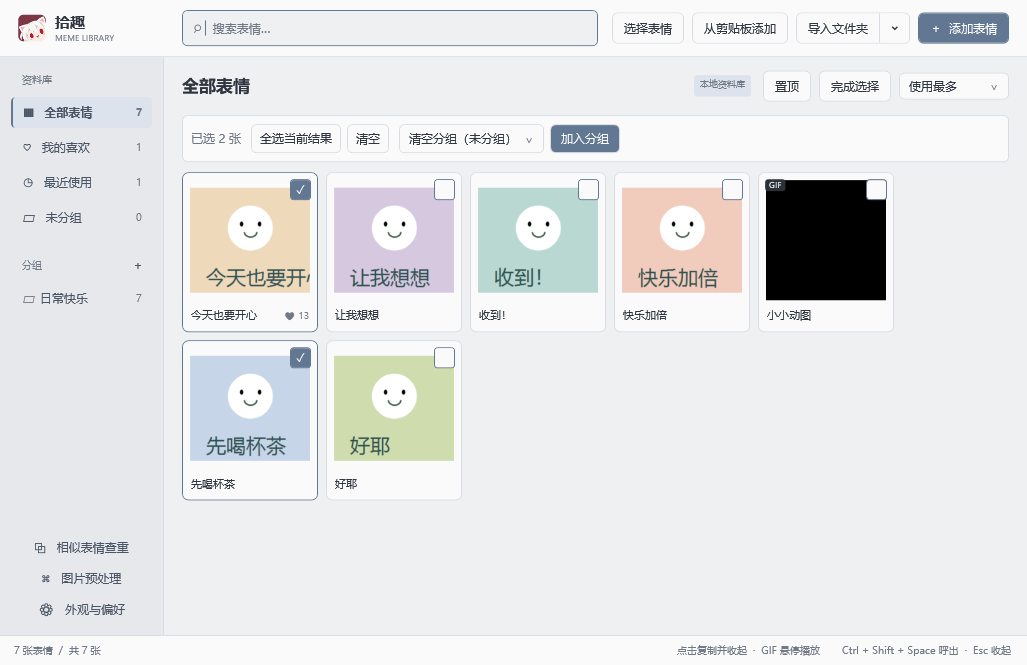
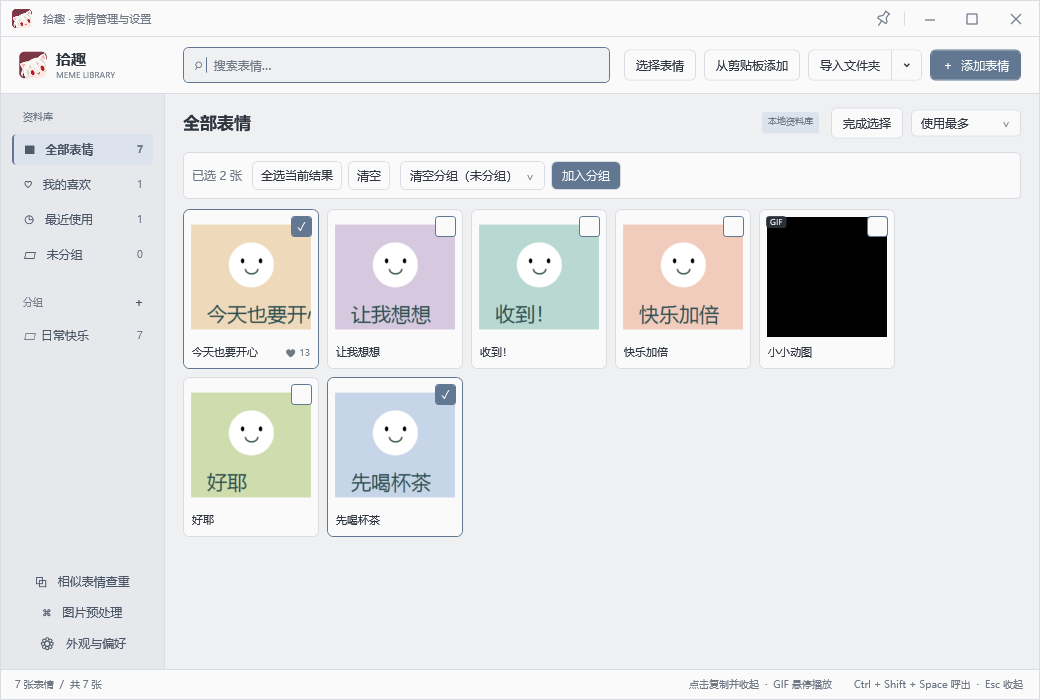
ui: move window pin controls into themed title bars

diff --git a/MainWindow.xaml b/MainWindow.xaml
@@ -9,6 +9,8 @@
   <Style x:Key="Nav" TargetType="ListBoxItem"><Setter Property="Foreground" Value="{DynamicResource SideInk}"/><Setter Property="Padding" Value="10,8"/><Setter Property="Margin" Value="0,2"/><Setter Property="HorizontalContentAlignment" Value="Stretch"/><Setter Property="Template"><Setter.Value><ControlTemplate TargetType="ListBoxItem"><Border x:Name="B" Background="Transparent" CornerRadius="4" Padding="{TemplateBinding Padding}" BorderThickness="2,0,0,0" BorderBrush="Transparent"><ContentPresenter/></Border><ControlTemplate.Triggers><Trigger Property="IsMouseOver" Value="True"><Setter TargetName="B" Property="Background" Value="{DynamicResource Tint}"/></Trigger><Trigger Property="IsSelected" Value="True"><Setter TargetName="B" Property="Background" Value="{DynamicResource Tint}"/><Setter TargetName="B" Property="BorderBrush" Value="{DynamicResource Accent}"/><Setter Property="FontWeight" Value="SemiBold"/></Trigger></ControlTemplate.Triggers></ControlTemplate></Setter.Value></Setter></Style>
   <Style x:Key="CompactMenu" TargetType="ContextMenu"><Setter Property="Background" Value="{DynamicResource Surface}"/><Setter Property="Foreground" Value="{DynamicResource Ink}"/><Setter Property="BorderBrush" Value="{DynamicResource Line}"/><Setter Property="BorderThickness" Value="1"/><Setter Property="Padding" Value="6"/><Setter Property="HasDropShadow" Value="True"/><Setter Property="Template"><Setter.Value><ControlTemplate TargetType="ContextMenu"><Border Background="{TemplateBinding Background}" BorderBrush="{TemplateBinding BorderBrush}" BorderThickness="1" CornerRadius="9" Padding="{TemplateBinding Padding}"><StackPanel IsItemsHost="True" KeyboardNavigation.DirectionalNavigation="Cycle"/></Border></ControlTemplate></Setter.Value></Setter></Style>
   <Style x:Key="CompactMenuItem" TargetType="MenuItem"><Setter Property="Foreground" Value="{DynamicResource Ink}"/><Setter Property="Padding" Value="10,9"/><Setter Property="Cursor" Value="Hand"/><Setter Property="Template"><Setter.Value><ControlTemplate TargetType="MenuItem"><Border x:Name="Item" Background="Transparent" CornerRadius="5" Padding="{TemplateBinding Padding}"><Grid><Grid.ColumnDefinitions><ColumnDefinition Width="24"/><ColumnDefinition Width="*"/></Grid.ColumnDefinitions><ContentPresenter x:Name="Glyph" ContentSource="Icon" VerticalAlignment="Center"/><TextBlock x:Name="Check" Text="✓" Foreground="{DynamicResource Accent}" Visibility="Collapsed" VerticalAlignment="Center"/><ContentPresenter Grid.Column="1" ContentSource="Header" RecognizesAccessKey="True" VerticalAlignment="Center"/></Grid></Border><ControlTemplate.Triggers><Trigger Property="IsHighlighted" Value="True"><Setter TargetName="Item" Property="Background" Value="{DynamicResource Tint}"/></Trigger><Trigger Property="IsChecked" Value="True"><Setter TargetName="Check" Property="Visibility" Value="Visible"/><Setter TargetName="Glyph" Property="Visibility" Value="Collapsed"/></Trigger><Trigger Property="IsEnabled" Value="False"><Setter TargetName="Item" Property="Opacity" Value="0.4"/></Trigger></ControlTemplate.Triggers></ControlTemplate></Setter.Value></Setter></Style>
+  <Style x:Key="CaptionButton" TargetType="Button"><Setter Property="Width" Value="42"/><Setter Property="Height" Value="35"/><Setter Property="Padding" Value="0"/><Setter Property="Foreground" Value="{DynamicResource Muted}"/><Setter Property="Background" Value="Transparent"/><Setter Property="BorderThickness" Value="0"/><Setter Property="Template"><Setter.Value><ControlTemplate TargetType="Button"><Border Background="{TemplateBinding Background}" BorderBrush="{DynamicResource Accent}" BorderThickness="{TemplateBinding BorderThickness}"><ContentPresenter HorizontalAlignment="Center" VerticalAlignment="Center"/></Border></ControlTemplate></Setter.Value></Setter><Style.Triggers><Trigger Property="IsMouseOver" Value="True"><Setter Property="Background" Value="{DynamicResource Tint}"/><Setter Property="Foreground" Value="{DynamicResource Ink}"/></Trigger><Trigger Property="IsPressed" Value="True"><Setter Property="Opacity" Value="0.65"/></Trigger><Trigger Property="IsKeyboardFocused" Value="True"><Setter Property="BorderThickness" Value="1"/></Trigger></Style.Triggers></Style>
+  <Style x:Key="CaptionCloseButton" TargetType="Button" BasedOn="{StaticResource CaptionButton}"><Style.Triggers><Trigger Property="IsMouseOver" Value="True"><Setter Property="Background" Value="#C74754"/><Setter Property="Foreground" Value="White"/></Trigger></Style.Triggers></Style>
  </Window.Resources>
  <Grid Background="{DynamicResource Wallpaper}">
   <Grid.RowDefinitions><RowDefinition Height="57"/><RowDefinition Height="*"/><RowDefinition Height="30"/></Grid.RowDefinitions>
@@ -24,7 +26,7 @@
     <StackPanel Grid.Row="2"><Button x:Name="DuplicatesButton" Content="⧉   相似表情查重" Background="Transparent" Foreground="{DynamicResource SideInk}" BorderThickness="0" Padding="10,8"/><Button x:Name="PreprocessButton" Content="⌘   图片预处理" Background="Transparent" Foreground="{DynamicResource SideInk}" BorderThickness="0" Padding="10,8"/><Button x:Name="SettingsButton" Content="⚙   外观与偏好" Background="Transparent" Foreground="{DynamicResource SideInk}" BorderThickness="0" Padding="10,8"/></StackPanel>
    </Grid></Border>
    <Grid Grid.Column="1" Margin="18,0,10,0"><Grid.RowDefinitions><RowDefinition Height="58"/><RowDefinition Height="Auto"/><RowDefinition Height="*"/></Grid.RowDefinitions>
-    <Grid Margin="0,0,8,0"><Grid.ColumnDefinitions><ColumnDefinition Width="*"/><ColumnDefinition Width="Auto"/></Grid.ColumnDefinitions><Grid VerticalAlignment="Center" Margin="0,0,12,0"><Grid.ColumnDefinitions><ColumnDefinition Width="*"/><ColumnDefinition Width="Auto"/></Grid.ColumnDefinitions><TextBlock x:Name="PageTitle" ToolTip="{Binding Text, RelativeSource={RelativeSource Self}}" Text="全部表情" FontSize="17" FontWeight="SemiBold" TextTrimming="CharacterEllipsis" HorizontalAlignment="Left"/><Border Grid.Column="1" Background="{DynamicResource Tint}" CornerRadius="3" Margin="10,0,0,0" Padding="6,3"><TextBlock Text="本地资料库" Foreground="{DynamicResource Muted}" FontSize="9"/></Border></Grid><StackPanel Grid.Column="1" Orientation="Horizontal" VerticalAlignment="Center"><Button x:Name="PinWindow" Content="置顶" Margin="0,0,8,0"/><Button x:Name="BatchToggle" Content="批量分组" Margin="0,0,8,0"/><ComboBox x:Name="Sort" SelectedIndex="0" VerticalAlignment="Center"><ComboBoxItem Content="使用最多"/><ComboBoxItem Content="最近添加"/><ComboBoxItem Content="最近使用"/><ComboBoxItem Content="名称排序"/></ComboBox></StackPanel></Grid>
+    <Grid Margin="0,0,8,0"><Grid.ColumnDefinitions><ColumnDefinition Width="*"/><ColumnDefinition Width="Auto"/></Grid.ColumnDefinitions><Grid VerticalAlignment="Center" Margin="0,0,12,0"><Grid.ColumnDefinitions><ColumnDefinition Width="*"/><ColumnDefinition Width="Auto"/></Grid.ColumnDefinitions><TextBlock x:Name="PageTitle" ToolTip="{Binding Text, RelativeSource={RelativeSource Self}}" Text="全部表情" FontSize="17" FontWeight="SemiBold" TextTrimming="CharacterEllipsis" HorizontalAlignment="Left"/><Border Grid.Column="1" Background="{DynamicResource Tint}" CornerRadius="3" Margin="10,0,0,0" Padding="6,3"><TextBlock Text="本地资料库" Foreground="{DynamicResource Muted}" FontSize="9"/></Border></Grid><StackPanel Grid.Column="1" Orientation="Horizontal" VerticalAlignment="Center"><Button x:Name="BatchToggle" Content="批量分组" Margin="0,0,8,0"/><ComboBox x:Name="Sort" SelectedIndex="0" VerticalAlignment="Center"><ComboBoxItem Content="使用最多"/><ComboBoxItem Content="最近添加"/><ComboBoxItem Content="最近使用"/><ComboBoxItem Content="名称排序"/></ComboBox></StackPanel></Grid>
     <Border x:Name="BatchBar" Grid.Row="1" Visibility="Collapsed" Background="{DynamicResource Surface}" BorderBrush="{DynamicResource Line}" BorderThickness="1" CornerRadius="5" Padding="8" Margin="0,0,8,10"><WrapPanel VerticalAlignment="Center"><TextBlock x:Name="BatchCount" Text="已选 0 张" Foreground="{DynamicResource Muted}" VerticalAlignment="Center" Margin="0,0,10,0"/><Button x:Name="BatchSelectAll" Content="全选当前结果" Padding="8,6" Margin="0,0,6,0"/><Button x:Name="BatchClear" Content="清空" Padding="8,6" Margin="0,0,10,0"/><ComboBox x:Name="BatchGroup" MinWidth="120" MaxWidth="180" Margin="0,0,6,0"/><Button x:Name="BatchMove" Content="加入分组" Padding="10,6" Background="{DynamicResource Accent}" Foreground="White"/></WrapPanel></Border>
     <Grid Grid.Row="2"><ScrollViewer x:Name="Scroller" VerticalScrollBarVisibility="Auto" HorizontalScrollBarVisibility="Disabled" Padding="0,0,0,8"><WrapPanel x:Name="Cards"/></ScrollViewer><StackPanel x:Name="Empty" HorizontalAlignment="Center" VerticalAlignment="Center" Margin="0,0,0,40"><Border Background="{DynamicResource Tint}" CornerRadius="12" Width="52" Height="52" HorizontalAlignment="Center"><TextBlock Text="▦" FontSize="27" Foreground="{DynamicResource Accent}" HorizontalAlignment="Center" VerticalAlignment="Center"/></Border><TextBlock x:Name="EmptyTitle" Text="添加第一张表情" FontSize="17" FontWeight="SemiBold" TextAlignment="Center" Margin="0,16,0,8"/><TextBlock x:Name="EmptyHint" Text="拖入图片或文件夹，建立你的本地表情库" Foreground="{DynamicResource Muted}" TextAlignment="Center"/><Button x:Name="EmptyImport" Content="＋  添加表情" Background="{DynamicResource Accent}" BorderBrush="{DynamicResource Accent}" Foreground="White" Margin="0,18,0,0" HorizontalAlignment="Center"/></StackPanel></Grid>
    </Grid>

diff --git a/WindowActions.cs b/WindowActions.cs
@@ -3,14 +3,40 @@ using System.IO;
 using System.Linq;
 using System.Windows;
 using System.Windows.Controls;
+using System.Windows.Automation;
+using System.Windows.Data;
 using System.Windows.Input;
 using System.Windows.Media;
 using System.Windows.Media.Imaging;
+using System.Windows.Shell;
+using ShapePath=System.Windows.Shapes.Path;
 
 namespace MemeManager {
  public partial class ManagerWindow {
   Button pickerPin;
-  void UpdatePinButtons(){var main=Find<Button>("PinWindow");if(main!=null){main.Content=window.Topmost?"取消置顶":"置顶";main.ToolTip=window.Topmost?"管理窗口已置顶":"让管理窗口显示在其它窗口上方";main.SetResourceReference(Button.BackgroundProperty,window.Topmost?"Tint":"Surface");}if(pickerPin!=null){pickerPin.Content=picker.Topmost?"取消置顶":"置顶";pickerPin.SetResourceReference(Button.BackgroundProperty,picker.Topmost?"Tint":"Surface");}}
+  // WindowChrome keeps native caption dragging, double-click, system menu and edge resizing.
+  Button AddWindowTitleBar(Window target,bool quick){
+   var content=(UIElement)target.Content;target.Content=null;
+   WindowChrome.SetWindowChrome(target,new WindowChrome{CaptionHeight=36,ResizeBorderThickness=new Thickness(6),GlassFrameThickness=new Thickness(0),CornerRadius=new CornerRadius(0),UseAeroCaptionButtons=false});
+   var frame=new Border{BorderThickness=new Thickness(1)};frame.SetResourceReference(Border.BorderBrushProperty,"Line");
+   var layout=new Grid();layout.RowDefinitions.Add(new RowDefinition{Height=new GridLength(36)});layout.RowDefinitions.Add(new RowDefinition());frame.Child=layout;
+   var caption=new Border{BorderThickness=new Thickness(0,0,0,1)};caption.SetResourceReference(Border.BackgroundProperty,"Surface");caption.SetResourceReference(Border.BorderBrushProperty,"Line");layout.Children.Add(caption);
+   var bar=new Grid();bar.ColumnDefinitions.Add(new ColumnDefinition{Width=new GridLength(42)});bar.ColumnDefinitions.Add(new ColumnDefinition());bar.ColumnDefinitions.Add(new ColumnDefinition{Width=GridLength.Auto});caption.Child=bar;
+   var icon=new Image{Source=target.Icon,Width=20,Height=20,VerticalAlignment=VerticalAlignment.Center,HorizontalAlignment=HorizontalAlignment.Center};WindowChrome.SetIsHitTestVisibleInChrome(icon,true);icon.MouseLeftButtonDown+=(s,e)=>{if(e.ClickCount==2)target.Close();else SystemCommands.ShowSystemMenu(target,target.PointToScreen(new Point(0,36)));e.Handled=true;};bar.Children.Add(icon);
+   var title=new TextBlock{FontSize=11,VerticalAlignment=VerticalAlignment.Center,TextTrimming=TextTrimming.CharacterEllipsis,Margin=new Thickness(0,0,12,0)};title.SetBinding(TextBlock.TextProperty,new Binding("Title"){Source=target});title.SetResourceReference(TextBlock.ForegroundProperty,"Muted");Grid.SetColumn(title,1);bar.Children.Add(title);
+   var actions=new StackPanel{Orientation=Orientation.Horizontal};Grid.SetColumn(actions,2);bar.Children.Add(actions);
+   var pin=CaptionButton(target,quick?"PickerPinWindow":"PinWindow","置顶窗口","M 7,1 L 13,1 M 8,1 L 8,6 L 5,9 L 5,11 L 15,11 L 15,9 L 12,6 L 12,1 M 10,11 L 10,17");pin.Width=36;actions.Children.Add(pin);if(!quick)target.RegisterName("PinWindow",pin);
+   var separator=new Border{Width=1,Height=14,Margin=new Thickness(4,0,4,0),VerticalAlignment=VerticalAlignment.Center};separator.SetResourceReference(Border.BackgroundProperty,"Line");actions.Children.Add(separator);
+   var minimize=CaptionButton(target,"CaptionMinimize","最小化","M 4,10 L 14,10");minimize.Click+=(s,e)=>target.WindowState=WindowState.Minimized;actions.Children.Add(minimize);
+   var maximize=CaptionButton(target,"CaptionMaximize","最大化","M 4,4 L 14,4 L 14,14 L 4,14 Z");maximize.Click+=(s,e)=>{target.WindowState=target.WindowState==WindowState.Maximized?WindowState.Normal:WindowState.Maximized;};actions.Children.Add(maximize);
+   var close=CaptionButton(target,"CaptionClose","关闭","M 4,4 L 14,14 M 14,4 L 4,14");close.Width=46;close.Style=(Style)target.FindResource("CaptionCloseButton");close.Click+=(s,e)=>target.Close();actions.Children.Add(close);
+   Grid.SetRow(content,1);layout.Children.Add(content);target.Content=frame;
+   target.StateChanged+=(s,e)=>{bool full=target.WindowState==WindowState.Maximized;frame.Padding=full?SystemParameters.WindowResizeBorderThickness:new Thickness(0);maximize.ToolTip=full?"还原":"最大化";AutomationProperties.SetName(maximize,(string)maximize.ToolTip);((ShapePath)maximize.Content).Data=Geometry.Parse(full?"M 6,4 L 6,2 L 16,2 L 16,12 L 14,12 M 3,6 L 12,6 L 12,15 L 3,15 Z":"M 4,4 L 14,4 L 14,14 L 4,14 Z");};
+   return pin;
+  }
+  Button CaptionButton(Window target,string name,string label,string geometry){var button=new Button{Name=name,ToolTip=label,Style=(Style)target.FindResource("CaptionButton")};AutomationProperties.SetName(button,label);WindowChrome.SetIsHitTestVisibleInChrome(button,true);var glyph=new ShapePath{Data=Geometry.Parse(geometry),Width=18,Height=18,StrokeThickness=1.2,StrokeLineJoin=PenLineJoin.Round,SnapsToDevicePixels=true};glyph.SetBinding(ShapePath.StrokeProperty,new Binding("Foreground"){Source=button});button.Content=glyph;return button;}
+  void SetPinAppearance(Button button,bool pinned,string label){if(button==null)return;button.ToolTip=pinned?"取消"+label+"置顶":label+"置顶";AutomationProperties.SetName(button,(string)button.ToolTip);AutomationProperties.SetItemStatus(button,pinned?"已置顶":"未置顶");if(pinned){button.SetResourceReference(Button.BackgroundProperty,"Tint");button.SetResourceReference(Button.ForegroundProperty,"Accent");}else{button.ClearValue(Button.BackgroundProperty);button.ClearValue(Button.ForegroundProperty);}((ShapePath)button.Content).RenderTransform=new RotateTransform(pinned?0:35,9,9);}
+  void UpdatePinButtons(){SetPinAppearance(Find<Button>("PinWindow"),window.Topmost,"管理窗口");if(pickerPin!=null)SetPinAppearance(pickerPin,picker.Topmost,"选择窗口");}
   void ToggleWindowPin(Window target,bool quick){bool previous=target.Topmost;try{target.Topmost=!previous;if(quick)library.Data.Settings.PickerTopmost=target.Topmost;else library.Data.Settings.ManagerTopmost=target.Topmost;library.Save();}catch(Exception ex){target.Topmost=previous;if(quick)library.Data.Settings.PickerTopmost=previous;else library.Data.Settings.ManagerTopmost=previous;Report(ex);}UpdatePinButtons();}
   void HandlePasteKey(Window owner,KeyEventArgs e){if(e.Key!=Key.V||Keyboard.Modifiers!=ModifierKeys.Control)return;try{var data=Clipboard.GetDataObject();if(!ClipboardImages.HasImages(data))return;e.Handled=true;if(!e.IsRepeat)AddFromClipboard(true,owner,data);}catch(System.Runtime.InteropServices.COMException){e.Handled=true;MessageBox.Show(owner,"剪贴板暂时被其它程序占用，请稍后重试。","暂时无法添加");}catch(Exception ex){e.Handled=true;MessageBox.Show(owner,ex.Message,"无法读取剪贴板");}}
   string ClipboardTarget(Window owner){string id=owner==picker&&pickerGroups!=null&&pickerGroups.SelectedItem!=null?((PickerGroup)pickerGroups.SelectedItem).Id:filter;return library.Data.Groups.Any(x=>x.Id==id)?id:null;}

diff --git a/tests/SmokeTests.cs b/tests/SmokeTests.cs
@@ -56,10 +56,14 @@ class SmokeTests {
   Check(Field<Window>(manager,"picker")==null,"picker is created lazily");Invoke(manager,"Settings");var settings=Field<Window>(manager,"settingsWindow");Check(settings.IsVisible&&!window.IsVisible&&settings.Owner==null,"settings opens independently without showing manager");Invoke(manager,"Settings");Check(object.ReferenceEquals(settings,Field<Window>(manager,"settingsWindow")),"settings window reuses its existing instance");
   object[] hotkeyArgs={Field<IntPtr>(manager,"handle"),0x312,new IntPtr(1),IntPtr.Zero,false};manager.GetType().GetMethod("MessageHook",BindingFlags.Instance|BindingFlags.NonPublic).Invoke(manager,hotkeyArgs);
   var picker=Field<Window>(manager,"picker");picker.UpdateLayout();Invoke(manager,"RenderPicker");Check((bool)hotkeyArgs[4]&&picker.IsVisible&&!window.IsVisible&&settings.IsEnabled,"global hotkey opens only picker while settings remains usable");Check(picker.Owner==null&&!picker.ShowInTaskbar,"picker has its own independent tool window");
+  Check(CaptionHitTest(picker,new Point(120,18))==2&&CaptionHitTest(picker,Field<Button>(manager,"pickerPin").TranslatePoint(new Point(18,18),picker))==1,"picker title bar keeps native dragging and clickable pin");
   Render(picker,Path.Combine(root,"preview-picker.png"));Render(settings,Path.Combine(root,"preview-settings.png"));
   var pickerSearch=Field<TextBox>(manager,"pickerSearch");pickerSearch.Text="今天";Invoke(manager,"RefreshPicker");Check(Field<List<Meme>>(manager,"pickerItems").Count==1,"picker search filters independently");var pickerCards=Field<WrapPanel>(manager,"pickerCards");Check(((Border)pickerCards.Children[0]).ContextMenu==null,"picker cards do not expose management actions");
   var liveForCopy=Field<Library>(manager,"library");int priorUses=liveForCopy.Data.Memes[0].Uses;Invoke(manager,"CompleteCopy",liveForCopy.Data.Memes[0],picker);Check(!picker.IsVisible&&settings.IsVisible&&!window.IsVisible&&liveForCopy.Data.Memes[0].Uses==priorUses+1,"successful selection records usage and hides only picker");
   pickerSearch.Clear();Invoke(manager,"Show");window.UpdateLayout();Invoke(manager,"RenderMore");Check(cards.Children.Count==7&&window.IsEnabled,"manager remains usable alongside modeless settings");
+  var mainPin=(Button)window.FindName("PinWindow");Check(CaptionHitTest(window,new Point(200,18))==2&&CaptionHitTest(window,mainPin.TranslatePoint(new Point(18,18),window))==1&&CaptionHitTest(window,new Point(300,2))==12,"manager title bar supports native dragging, pin clicks and top-edge resizing");
+  var captionMax=Descendants<Button>(window).Single(x=>x.Name=="CaptionMaximize");captionMax.RaiseEvent(new RoutedEventArgs(Button.ClickEvent));PumpUntil(()=>window.WindowState==WindowState.Maximized);window.UpdateLayout();Check(((FrameworkElement)window.Content).ActualWidth>0&&mainPin.TranslatePoint(new Point(0,0),window).Y>=SystemParameters.WindowResizeBorderThickness.Top,"maximized title bar stays within the visible work area");Render(window,Path.Combine(root,"preview-maximized.png"));captionMax.RaiseEvent(new RoutedEventArgs(Button.ClickEvent));PumpUntil(()=>window.WindowState==WindowState.Normal);
+  Descendants<Button>(window).Single(x=>x.Name=="CaptionMinimize").RaiseEvent(new RoutedEventArgs(Button.ClickEvent));PumpUntil(()=>window.WindowState==WindowState.Minimized);Invoke(manager,"Show");Check(window.WindowState==WindowState.Normal&&window.IsVisible,"caption minimize can reopen from the existing show action");Descendants<Button>(window).Single(x=>x.Name=="CaptionClose").RaiseEvent(new RoutedEventArgs(Button.ClickEvent));Check(!window.IsVisible,"caption close preserves hide-to-tray behavior");Invoke(manager,"Show");
   Check(window.FindName("OpenProcessor")==null&&window.FindName("PreprocessButton")!=null,"processor entry remains only in lower-left manager sidebar");
   var batchLibrary=Field<Library>(manager,"library");batchLibrary.Data.Groups.Add(new Group{Id="batch-target",Name="批量目标"});Invoke(manager,"ToggleBatchMode");int usesBeforeBatch=batchLibrary.Data.Memes.Sum(x=>x.Uses);var batchCard=(Border)cards.Children[0];batchCard.RaiseEvent(new System.Windows.Input.MouseButtonEventArgs(System.Windows.Input.Mouse.PrimaryDevice,0,System.Windows.Input.MouseButton.Left){RoutedEvent=UIElement.MouseLeftButtonUpEvent});
   Check(Field<HashSet<string>>(manager,"batchSelected").Count==1&&window.IsVisible&&batchLibrary.Data.Memes.Sum(x=>x.Uses)==usesBeforeBatch,"batch card click selects without copying or hiding manager");
@@ -101,6 +105,8 @@ class SmokeTests {
   Invoke(manager,"Exit");
   File.WriteAllText(Path.Combine(library.Root,"library.json"),"broken");var recovered=new Library(library.Root);Check(recovered.LoadWarning!=null&&recovered.Data.Memes.Count==7,"corrupt primary recovers from atomic backup");
  }
+ [System.Runtime.InteropServices.DllImport("user32.dll")]static extern IntPtr SendMessage(IntPtr hwnd,int message,IntPtr wparam,IntPtr lparam);
+ static int CaptionHitTest(Window target,Point local){var screen=target.PointToScreen(local);long packed=((long)(ushort)(int)screen.Y<<16)|(ushort)(int)screen.X;return SendMessage(new System.Windows.Interop.WindowInteropHelper(target).Handle,0x84,IntPtr.Zero,new IntPtr(packed)).ToInt32();}
  static void PasteDecision(object manager,Window owner,IDataObject data,bool accept,string render){bool started=false,responded=false;var timer=new System.Windows.Threading.DispatcherTimer{Interval=TimeSpan.FromMilliseconds(10)};timer.Tick+=(s,e)=>{var dialog=Application.Current.Windows.Cast<Window>().FirstOrDefault(w=>w.Title=="确认添加剪贴板图片"&&w.IsVisible);if(dialog==null||responded)return;responded=true;if(render!=null)Render(dialog,render);if(accept)Descendants<Button>(dialog).Single(x=>x.Content is string&&(string)x.Content=="确定添加").RaiseEvent(new RoutedEventArgs(Button.ClickEvent));else dialog.DialogResult=false;};timer.Start();owner.Dispatcher.BeginInvoke(new Action(()=>{started=true;Invoke(manager,"AddFromClipboard",true,owner,data);}));try{PumpUntil(()=>started&&responded&&!Field<bool>(manager,"readingClipboard"));}finally{timer.Stop();}}
  static IEnumerable<T> Descendants<T>(DependencyObject parent) where T:DependencyObject {for(int i=0;i<VisualTreeHelper.GetChildrenCount(parent);i++){var child=VisualTreeHelper.GetChild(parent,i);if(child is T)yield return (T)child;foreach(var nested in Descendants<T>(child))yield return nested;}}
  static void RenderElement(FrameworkElement element,string file){element.UpdateLayout();int w=(int)Math.Ceiling(element.ActualWidth),h=(int)Math.Ceiling(element.ActualHeight);var visual=new DrawingVisual();using(var dc=visual.RenderOpen())dc.DrawRectangle(new VisualBrush(element),null,new Rect(0,0,w,h));var bitmap=new RenderTargetBitmap(w,h,96,96,PixelFormats.Pbgra32);bitmap.Render(visual);var encoder=new PngBitmapEncoder();encoder.Frames.Add(BitmapFrame.Create(bitmap));using(var stream=File.Create(file))encoder.Save(stream);}

diff --git a/Picker.cs b/Picker.cs
@@ -20,7 +20,7 @@ namespace MemeManager {
    picker.UpdateLayout();RefreshPicker();picker.Activate();Native.SetForegroundWindow(new WindowInteropHelper(picker).Handle);pickerSearch.Focus();pickerSearch.SelectAll();
   }
   void CreatePicker(){
-   picker=new Window{Title="拾趣 · 选择表情",Icon=window.Icon,Width=604,Height=458,MinWidth=400,MinHeight=300,WindowStartupLocation=WindowStartupLocation.CenterScreen,WindowStyle=WindowStyle.ToolWindow,ResizeMode=ResizeMode.CanResizeWithGrip,ShowInTaskbar=false,Topmost=library.Data.Settings.PickerTopmost,Resources=window.Resources,FontFamily=window.FontFamily,FontSize=12,UseLayoutRounding=true};
+   picker=new Window{Title="拾趣 · 选择表情",Icon=window.Icon,Width=604,Height=458,MinWidth=400,MinHeight=300,WindowStartupLocation=WindowStartupLocation.CenterScreen,WindowStyle=WindowStyle.ToolWindow,ResizeMode=ResizeMode.CanResize,ShowInTaskbar=false,Topmost=library.Data.Settings.PickerTopmost,Resources=window.Resources,FontFamily=window.FontFamily,FontSize=12,UseLayoutRounding=true};
    picker.SetResourceReference(Window.BackgroundProperty,"Canvas");
    var root=new Grid{Margin=new Thickness(12,10,4,8)};root.SetResourceReference(Grid.BackgroundProperty,"Wallpaper");root.RowDefinitions.Add(new RowDefinition{Height=GridLength.Auto});root.RowDefinitions.Add(new RowDefinition{Height=new GridLength(1,GridUnitType.Star)});root.RowDefinitions.Add(new RowDefinition{Height=new GridLength(29)});
    var tools=new Grid{Margin=new Thickness(0,0,8,10)};tools.ColumnDefinitions.Add(new ColumnDefinition());tools.ColumnDefinitions.Add(new ColumnDefinition{Width=new GridLength(160)});
@@ -30,7 +30,7 @@ namespace MemeManager {
    var body=new Grid();Grid.SetRow(body,1);pickerCards=new WrapPanel();pickerScroll=new ScrollViewer{Content=pickerCards,VerticalScrollBarVisibility=ScrollBarVisibility.Auto,HorizontalScrollBarVisibility=ScrollBarVisibility.Disabled};body.Children.Add(pickerScroll);
    pickerEmpty=new TextBlock{Text="暂无表情，请到管理窗口导入",HorizontalAlignment=HorizontalAlignment.Center,VerticalAlignment=VerticalAlignment.Center,TextWrapping=TextWrapping.Wrap,Margin=new Thickness(12)};pickerEmpty.SetResourceReference(TextBlock.ForegroundProperty,"Muted");body.Children.Add(pickerEmpty);root.Children.Add(body);
    var footer=new Grid{Margin=new Thickness(0,3,8,0)};footer.ColumnDefinitions.Add(new ColumnDefinition());footer.ColumnDefinitions.Add(new ColumnDefinition{Width=GridLength.Auto});pickerStatus=new TextBlock{FontSize=10,TextTrimming=TextTrimming.CharacterEllipsis,VerticalAlignment=VerticalAlignment.Center};pickerStatus.SetResourceReference(TextBlock.ForegroundProperty,"Muted");footer.Children.Add(pickerStatus);
-   var manage=new Button{Content="表情管理 ↗",Padding=new Thickness(7,3,7,3),FontSize=10};manage.Click+=(s,e)=>{picker.Hide();Show();};var footerActions=new StackPanel{Orientation=Orientation.Horizontal};pickerPin=new Button{Content="置顶",Padding=new Thickness(7,3,7,3),FontSize=10,Margin=new Thickness(0,0,6,0)};pickerPin.Click+=(s,e)=>ToggleWindowPin(picker,true);footerActions.Children.Add(pickerPin);footerActions.Children.Add(manage);Grid.SetColumn(footerActions,1);footer.Children.Add(footerActions);UpdatePinButtons();Grid.SetRow(footer,2);root.Children.Add(footer);picker.Content=root;
+   var manage=new Button{Content="表情管理 ↗",Padding=new Thickness(7,3,7,3),FontSize=10};manage.Click+=(s,e)=>{picker.Hide();Show();};Grid.SetColumn(manage,1);footer.Children.Add(manage);Grid.SetRow(footer,2);root.Children.Add(footer);picker.Content=root;pickerPin=AddWindowTitleBar(picker,true);pickerPin.Click+=(s,e)=>ToggleWindowPin(picker,true);UpdatePinButtons();
    pickerSearchTimer=new DispatcherTimer{Interval=TimeSpan.FromMilliseconds(150)};pickerSearchTimer.Tick+=(s,e)=>{pickerSearchTimer.Stop();if(picker.IsVisible)RefreshPicker();};
    pickerSearch.TextChanged+=(s,e)=>{placeholder.Visibility=pickerSearch.Text.Length==0?Visibility.Visible:Visibility.Collapsed;pickerSearchTimer.Stop();pickerSearchTimer.Start();};
    pickerGroups.SelectionChanged+=(s,e)=>{if(!rebuildingPicker)RefreshPicker();};

diff --git a/App.cs b/App.cs
@@ -22,7 +22,7 @@ namespace MemeManager {
   string filter="all"; bool rebuilding,importing,exiting,rendering; int rendered,firstRendered=-1; List<Meme> visible=new List<Meme>();
   CancellationTokenSource importCancellation; readonly Dictionary<string,BitmapSource> thumbnails=new Dictionary<string,BitmapSource>();
   readonly List<GifPlayer> players=new List<GifPlayer>(); DispatcherTimer searchTimer,releaseTimer;
-  public ManagerWindow(){RenderOptions.ProcessRenderMode=RenderMode.SoftwareOnly;using(var stream=typeof(ManagerWindow).Assembly.GetManifestResourceStream("MemeManager.MainWindow.xaml"))window=(Window)XamlReader.Load(stream);using(var stream=typeof(ManagerWindow).Assembly.GetManifestResourceStream("MemeManager.Icon.png")){var icon=BitmapFrame.Create(stream,BitmapCreateOptions.None,BitmapCacheOption.OnLoad);icon.Freeze();window.Icon=icon;Find<Image>("BrandIcon").Source=icon;}}
+  public ManagerWindow(){RenderOptions.ProcessRenderMode=RenderMode.SoftwareOnly;using(var stream=typeof(ManagerWindow).Assembly.GetManifestResourceStream("MemeManager.MainWindow.xaml"))window=(Window)XamlReader.Load(stream);using(var stream=typeof(ManagerWindow).Assembly.GetManifestResourceStream("MemeManager.Icon.png")){var icon=BitmapFrame.Create(stream,BitmapCreateOptions.None,BitmapCacheOption.OnLoad);icon.Freeze();window.Icon=icon;Find<Image>("BrandIcon").Source=icon;}AddWindowTitleBar(window,false);}
   T Find<T>(string name) where T:class{return window.FindName(name) as T;}
   void Click(string name,RoutedEventHandler action){Find<Button>(name).Click+=action;}
   public void Initialize(string[] args){

diff --git a/docs/usage.md b/docs/usage.md
@@ -22,7 +22,7 @@ Windows 原生表情收藏夹。WPF + 系统自带 .NET Framework 4.8，无 WebV
 - 从剪贴板添加：点击管理页「从剪贴板添加」可直接导入；管理窗口或快捷选择器获得焦点时按 `Ctrl + V`，会先弹出预览确认框，显示数量和目标分组，确认后才添加，取消会清理临时副本。纯文本照常粘贴，不解析网址下载图片。快捷选择器使用自己当前选择的分组。支持多张图片文件、原 GIF / PNG 数据和截图位图，位图保存为 PNG；动图效果取决于剪贴板是否提供原文件或 GIF 数据。原内容不修改，重复图片复用并加入目标分组。只在点击或按键时读取，没有后台监听；临时文件在非 C 盘资料库 `temp` 中，结束后清理。内嵌图片限制 50 MB，位图限制 1 亿像素。
 - 分组与子分组：侧栏 `＋` 新建顶层组，右键分组选择「新建子分组」，也可用「移动分组到」调整父级。父组可展开 / 收起，选中父组会汇总所有后代，图片不会重复计数。删除单个组会将子组上移一级，并保留图片与其它归属。右键图片打开「所属分组（可多选）」逐项勾选，一张图片可以属于多个分组，磁盘仍只保留一份原文件；「清空所有分组归属」可设为未分组。旧版单分组资料库自动兼容。
 - 批量分组：点击「批量分组」勾选图片，或全选当前结果，选择目标组后点「加入分组」。加入时保留其它分组，搜索和滚动保留勾选；选择「清空分组（未分组）」会清空全部归属。选择模式下点击只勾选，不复制。也可先选侧栏分组，再多选文件、拖放或导入文件夹。
-- 窗口置顶：管理页右上角「置顶」与选择器底部「置顶」分别控制两个窗口，各自保存并在重启后沿用。置顶只改变窗口层次，点击复制后仍会按原来的规则自动收起。
+- 窗口置顶：管理窗口和选择窗口的标题栏右侧都有图钉按钮（位于最小化按钮左侧），分别控制两个窗口；置顶时图钉竖直并高亮，各自保存并在重启后沿用。置顶只改变窗口层次，点击复制后仍会按原来的规则自动收起。
 - 搜索与排序：名称搜索；使用最多、最近添加、最近使用、名称排序。
 - 相似查重：左下角或托盘「相似表情查重」手动开始检测。建议清理优先选未分组副本，保留项优先已有分组，再比较使用次数与分辨率；默认不勾选，人工确认后删除，每组至少留一张。被删除图片的分组归属会合并到保留图，支持撤销。详见 [查重手册](duplicates.md)。
 - 点击图片：复制原文件和静态图片兼容格式到剪贴板，记录使用次数，随后隐藏窗口。在聊天窗口按 `Ctrl + V` 粘贴。支持文件粘贴的应用可接收原始 GIF；只接收位图的应用会得到静态首帧。程序不模拟向其他软件发送按键。
